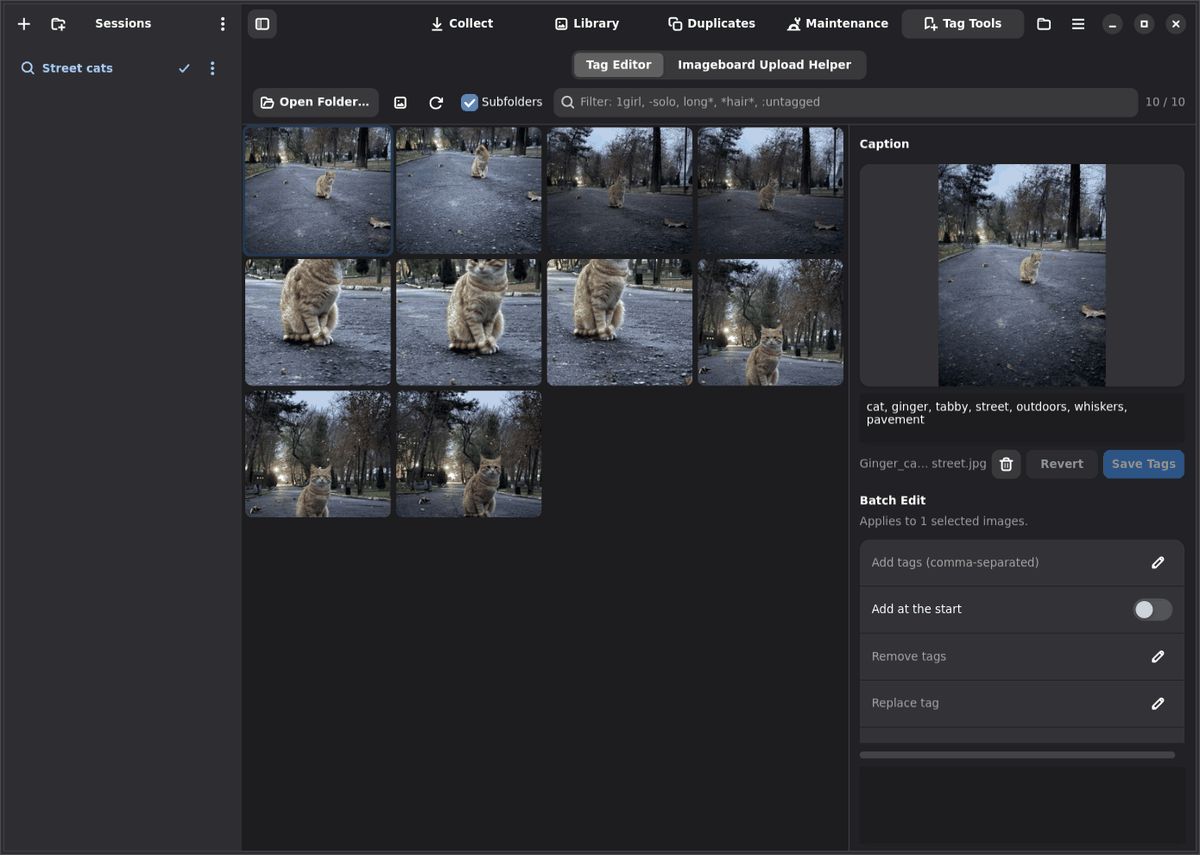
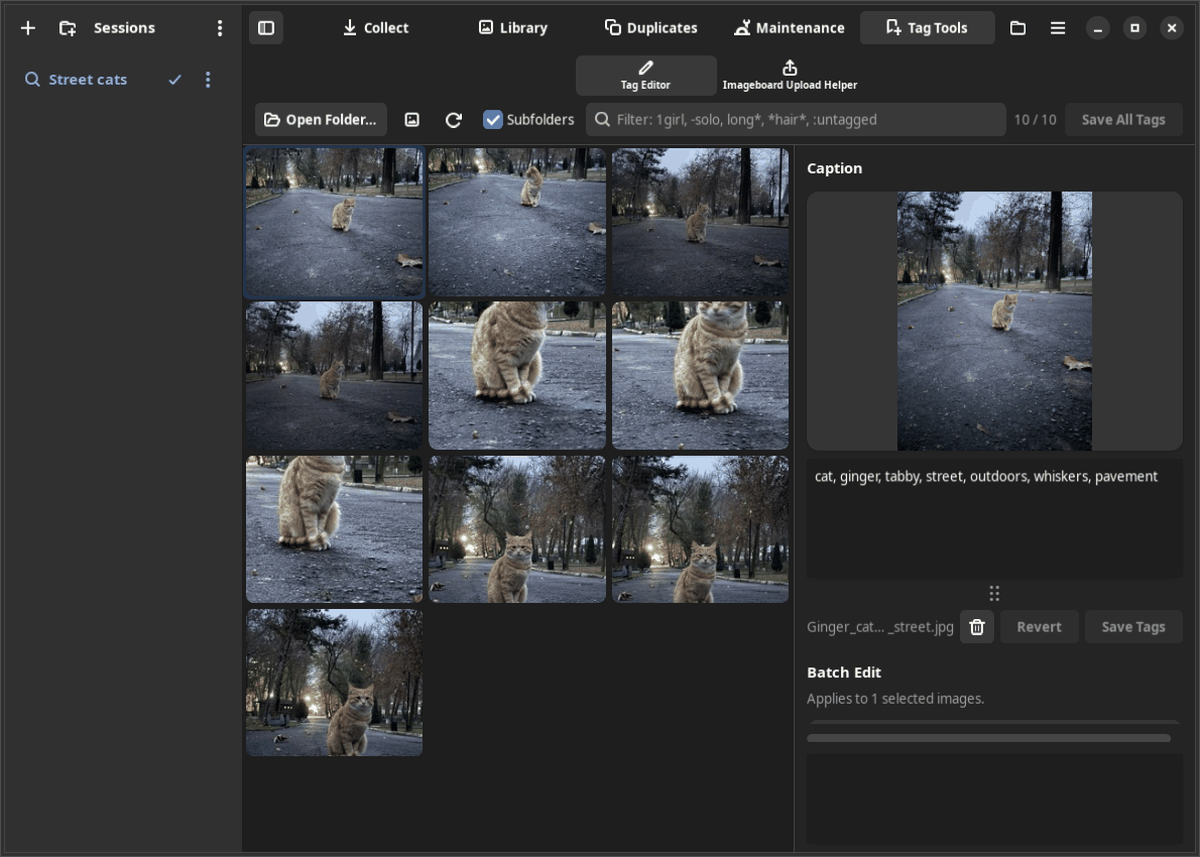
Tag Editor: Save All Tags in the toolbar, per-image Save Tags, real Discard, resizable caption box, double-click preview to zoom; refresh screenshot

diff --git a/dataset_manager/ui/tag_editor.py b/dataset_manager/ui/tag_editor.py
@@ -70,7 +70,9 @@ class TagEditor(Gtk.Box):
         self.count = Gtk.Label(css_classes=["dim-label", "numeric"])
         self.recursive = Gtk.CheckButton(label="Subfolders", active=True)
         self.recursive.connect("toggled", lambda _b: self.reload())
-        for w in (open_btn, lib_btn, self.reload_btn, self.recursive, self.search, self.count):
+        self.save_all_btn = Gtk.Button(label="Save All Tags", sensitive=False)
+        self.save_all_btn.connect("clicked", lambda _b: self.save_all())
+        for w in (open_btn, lib_btn, self.reload_btn, self.recursive, self.search, self.count, self.save_all_btn):
             bar.append(w)
 
         # ---- grid ----
@@ -127,6 +129,7 @@ class TagEditor(Gtk.Box):
         self.append(self.toasts)
         self._selection_changed()
         self.connect("unrealize", lambda _w: self._flush())
+        self.connect("map", self._first_map)
         state.library_selected.connect(self._library_selected)
 
     def _library_selected(self, path: str) -> None:
@@ -141,7 +144,6 @@ class TagEditor(Gtk.Box):
         if self._save_id:
             GLib.source_remove(self._save_id)
             self._save_settings()
-        self.connect("map", self._first_map)
 
     def _first_map(self, _w) -> None:
         # reopen the last folder only when the tab is first shown, so start-up stays fast
@@ -159,16 +161,27 @@ class TagEditor(Gtk.Box):
         g = Adw.PreferencesGroup(title="Caption")
         self.preview = Gtk.Picture(content_fit=Gtk.ContentFit.CONTAIN, height_request=260, can_shrink=True)
         self.preview.add_css_class("card")
+        self.preview.set_tooltip_text("Double-click for a closer look")
+        dbl = Gtk.GestureClick()
+        dbl.connect("pressed", lambda _g, n, _x, _y: self._zoom() if n == 2 else None)
+        self.preview.add_controller(dbl)
         self.cap_name = Gtk.Label(xalign=0, ellipsize=Pango.EllipsizeMode.MIDDLE, css_classes=["dim-label"])
         self.cap_view = Gtk.TextView(wrap_mode=Gtk.WrapMode.WORD_CHAR, top_margin=8, bottom_margin=8,
                                      left_margin=8, right_margin=8, height_request=110)
         self.cap_buf = self.cap_view.get_buffer()
         self.cap_buf.connect("changed", lambda _b: self._cap_edited())
-        frame = Gtk.ScrolledWindow(child=self.cap_view, css_classes=["card"], max_content_height=240,
-                                   propagate_natural_height=True)
-        self.save_btn = Gtk.Button(label="Save Tags", css_classes=["suggested-action"], sensitive=False)
-        self.save_btn.set_tooltip_text("Write every changed caption to disk · Ctrl+S")
-        self.save_btn.connect("clicked", lambda _b: self.save_all())
+        frame = Gtk.ScrolledWindow(child=self.cap_view, css_classes=["card"], min_content_height=120)
+        # drag the grip under the box to make it taller or shorter
+        grip = Gtk.Image(icon_name="list-drag-handle-symbolic", css_classes=["dim-label"],
+                         tooltip_text="Drag to resize the caption box")
+        grip.set_cursor(Gdk.Cursor.new_from_name("ns-resize"))
+        drag = Gtk.GestureDrag()
+        drag.connect("drag-begin", lambda *_a: setattr(self, "_grip_h", frame.get_min_content_height()))
+        drag.connect("drag-update", lambda _g, _x, dy: frame.set_min_content_height(max(60, int(self._grip_h + dy))))
+        grip.add_controller(drag)
+        self.save_btn = Gtk.Button(label="Save Tags", sensitive=False)
+        self.save_btn.set_tooltip_text("Write this image's caption to disk")
+        self.save_btn.connect("clicked", lambda _b: self.save_all(only=self.current))
         self.revert_btn = Gtk.Button(label="Revert", sensitive=False)
         self.revert_btn.connect("clicked", lambda _b: self._revert_current())
         self.trash_btn = Gtk.Button(icon_name="user-trash-symbolic", tooltip_text="Move the selected images to the Trash")
@@ -179,7 +192,7 @@ class TagEditor(Gtk.Box):
         for b in (self.trash_btn, self.revert_btn, self.save_btn):
             row.append(b)
         box = Gtk.Box(orientation=Gtk.Orientation.VERTICAL, spacing=8)
-        for w in (self.preview, frame, row):
+        for w in (self.preview, frame, grip, row):
             box.append(w)
         g.add(box)
         keys = Gtk.EventControllerKey()
@@ -382,6 +395,8 @@ class TagEditor(Gtk.Box):
                     return
                 if rid == "save":
                     self.save_all()
+                elif rid == "discard":
+                    self._discard()
                 self._open(folder, remember)
             alert(self.get_root(), f"Save {n} unsaved caption{'s' if n != 1 else ''} first?",
                   "They belong to the folder you are leaving.",
@@ -517,12 +532,23 @@ class TagEditor(Gtk.Box):
 
     def _update_save_ui(self) -> None:
         n = self.unsaved()
-        self.save_btn.set_label(f"Save Tags ({n:,})" if n else "Save Tags")
-        self.save_btn.set_sensitive(n > 0)
-        self.save_btn.set_tooltip_text(f"Write {n:,} changed caption{'s' if n != 1 else ''} to disk · Ctrl+S" if n
-                                       else "Every caption is saved")
         cur = self.current
-        self.revert_btn.set_sensitive(bool(cur) and self.captions.get(cur, []) != self._disk.get(cur, []))
+        cur_dirty = bool(cur) and self.captions.get(cur, []) != self._disk.get(cur, [])
+        self.save_all_btn.set_label(f"Save All Tags ({n:,})" if n else "Save All Tags")
+        self.save_all_btn.set_sensitive(n > 0)
+        self.save_all_btn.set_tooltip_text(f"Write {n:,} changed caption{'s' if n != 1 else ''} to disk · Ctrl+S"
+                                           if n else "Every caption is saved")
+        # highlight only when there really is something to save; an insensitive blue button reads as "unsaved"
+        for b, on in ((self.save_all_btn, n > 0), (self.save_btn, cur_dirty)):
+            (b.add_css_class if on else b.remove_css_class)("suggested-action")
+        self.save_btn.set_sensitive(cur_dirty)
+        self.revert_btn.set_sensitive(cur_dirty)
+
+    def _discard(self) -> None:
+        """Drop every staged edit (the caption box included) and go back to what is on disk."""
+        self.captions = dict(self._disk)
+        self._show_caption()
+        self._refresh_cells()
 
     def _stage(self, new: dict[str, list[str]], refresh: bool = True) -> int:
         """Keep caption changes in memory; only Save Tags and the close prompt write them."""
@@ -552,11 +578,14 @@ class TagEditor(Gtk.Box):
         self._stage({p: self._disk.get(p, [])})
         self._show_caption()
 
-    def save_all(self) -> int:
+    def save_all(self, only: str | None = None) -> int:
+        """Write every staged caption, or just `only`'s."""
         self.save_current()
         pending = self.dirty()
+        if only:
+            pending = {only: pending[only]} if only in pending else {}
         if not pending:
-            self.save_btn.set_sensitive(False)
+            self._update_save_ui()
             return 0
         failed = []
         for p, tags in pending.items():
@@ -575,6 +604,28 @@ class TagEditor(Gtk.Box):
             self._toast(f"Saved {saved:,} caption{'s' if saved != 1 else ''}.")
             self._fill_tags()
         return saved
+
+    def _zoom(self) -> None:
+        """Closer look at the current image in a dialog (X or Escape closes it)."""
+        p = self.current
+        if not p:
+            return
+        pic = Gtk.Picture(content_fit=Gtk.ContentFit.CONTAIN, can_shrink=True, vexpand=True, hexpand=True,
+                          paintable=self.preview.get_paintable())          # the preview until the full image loads
+        view = Adw.ToolbarView(content=pic)
+        view.add_top_bar(Adw.HeaderBar(title_widget=Adw.WindowTitle(title=os.path.basename(p))))
+        root = self.get_root()
+        w, h = root.get_width(), root.get_height()
+        dlg = Adw.Dialog(child=view, content_width=int(w * 0.85), content_height=int(h * 0.9))
+
+        def job():
+            t = make_thumbnail(p, 2048)
+            try:
+                return Gdk.Texture.new_from_filename(t) if t else None
+            except GLib.Error:
+                return None
+        run_background(job, lambda tex: pic.set_paintable(tex) if tex else None)
+        dlg.present(root)
 
     def _cap_key(self, _c, keyval, _code, mods) -> bool:
         if keyval == Gdk.KEY_s and mods & Gdk.ModifierType.CONTROL_MASK:
@@ -634,7 +685,7 @@ class TagEditor(Gtk.Box):
         n = self._stage(changed)
         self.undo_btn.set_sensitive(True)
         self._show_caption()
-        self._toast(f"Changed {n:,} captions · press Save Tags to write them.")
+        self._toast(f"Changed {n:,} captions · press Save All Tags to write them.")
         for row in (self.add_row, self.remove_row):
             if (op == "add" and row is self.add_row) or (op == "remove" and row is self.remove_row):
                 row.set_text("")
@@ -789,7 +840,7 @@ class TagEditor(Gtk.Box):
                 new = tagedit.merge(old[f], list(tags), mode)
                 if new is not None and new != old[f]:
                     out[f] = new
-            ctx.log(f"Tagged {len(out):,} images — press Save Tags to write them.")
+            ctx.log(f"Tagged {len(out):,} images — press Save All Tags to write them.")
             return out
 
         def done(out):
@@ -833,7 +884,7 @@ class TagEditor(Gtk.Box):
             self._undo = {f: old[f] for f in written}
             self.undo_btn.set_sensitive(bool(written))
             self._fill_tags()
-            self.panel.log(f"Captioned {len(written):,} images — press Save Tags to write them.")
+            self.panel.log(f"Captioned {len(written):,} images — press Save All Tags to write them.")
         self.panel.run(lambda ctx: joycaption.caption_files(s, files, ctx, one), done, name="JoyCaption")
 
     def _caption_done(self, f: str, new: list[str]) -> None:

diff --git a/README.md b/README.md
@@ -48,7 +48,7 @@ The pages are in the header bar (Ctrl+1 … Ctrl+5); the left sidebar holds your
 | Library | Per-collection statistics and thumbnail previews |
 | Duplicates | Exact + near-duplicate finder; review groups, then move to Trash or delete |
 | Maintenance | Optional steps: dedupe, sort, rename, JPEG, resize, low-quality flagging, captions |
-| Tag Tools | **Tag Editor**: browse a dataset, filter by tags, edit captions one by one or in batches, auto-tag (JTP Hydra 3.5, WD EVA02 Large v3) and caption with JoyCaption. **Imageboard Upload Helper**: turns tag lists into imageboard upload format |
+| Tag Tools | **Tag Editor**: browse a dataset, filter by tags, edit captions one by one or in batches (save one image or all of them; double-click the preview for a closer look), auto-tag (JTP Hydra 3.5, WD EVA02 Large v3) and caption with JoyCaption. **Imageboard Upload Helper**: turns tag lists into imageboard upload format |
 
 The window adapts to narrow sizes: the sidebar collapses and the page switcher moves to the bottom.
 
